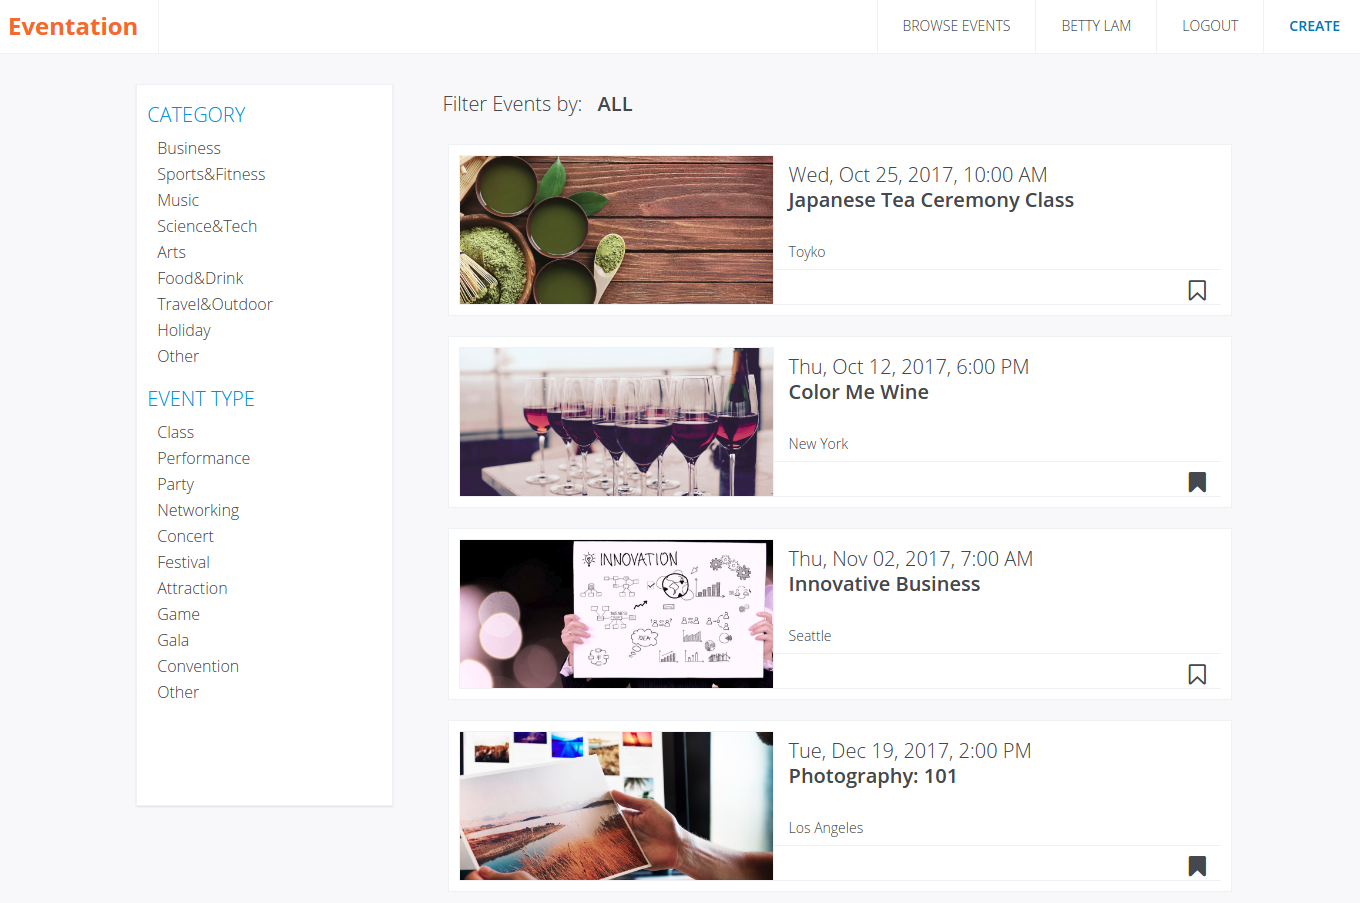
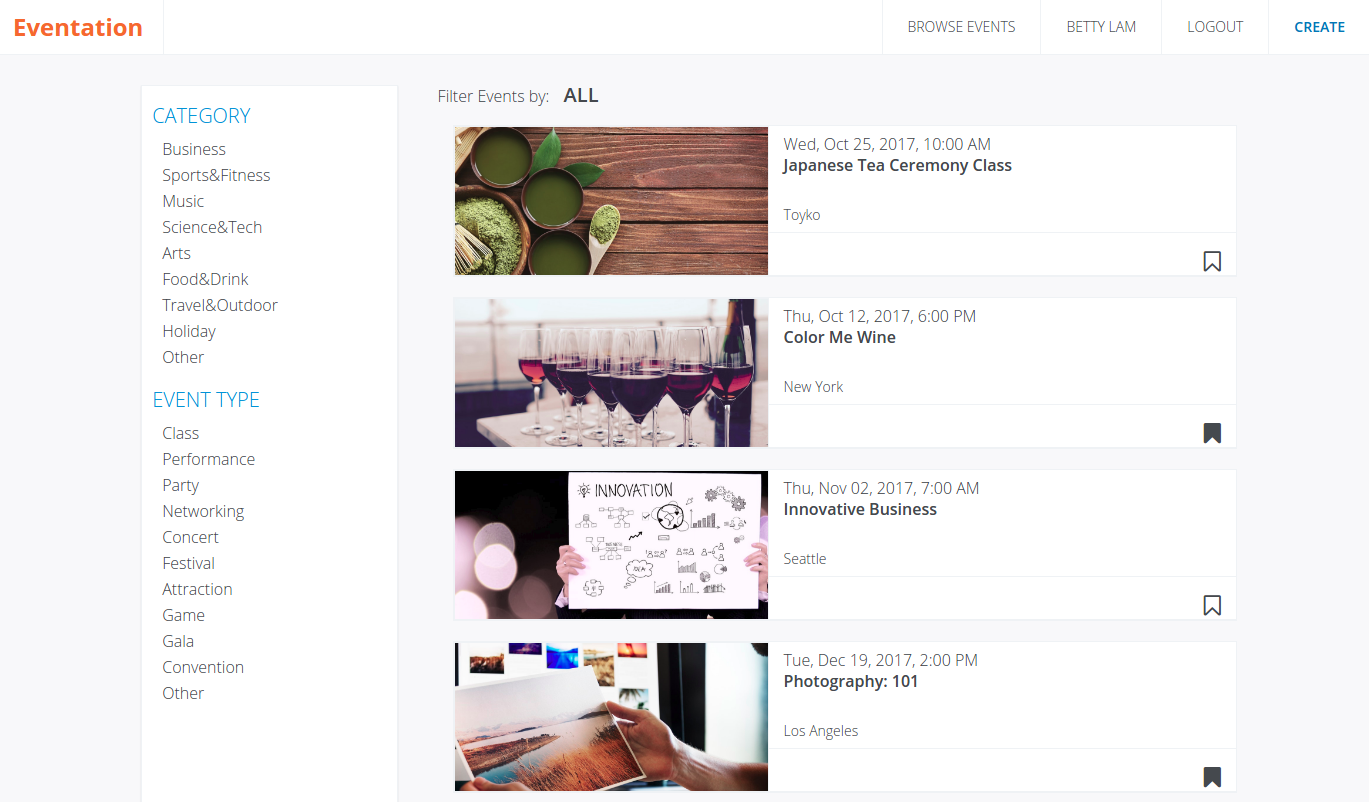
Added screenshot and updated event browse styling

diff --git a/frontend/components/event/event_browse.jsx b/frontend/components/event/event_browse.jsx
@@ -78,7 +78,7 @@ class EventBrowse extends React.Component {
           updateQuery={this.updateQuery}
           state={this.state}/>
         <div className="browse-index">
-          <div>Filter Events by: <h3>{filterStr}</h3></div>
+          <div className="header">Filter Events by: <h3>{filterStr}</h3></div>
           {this.renderEvents()}
         </div>
 

diff --git a/app/assets/stylesheets/components/event_browse.scss b/app/assets/stylesheets/components/event_browse.scss
@@ -44,7 +44,7 @@ $item-image-width-long: ($item-image-height-long + 30px) * 2.1;
     grid-area: 1 / 2;
     margin: 30px 0 30px 30px;
 
-    div, h3 {
+    .header, h3 {
       font-size: 20px;
       padding: 10px;
     }
